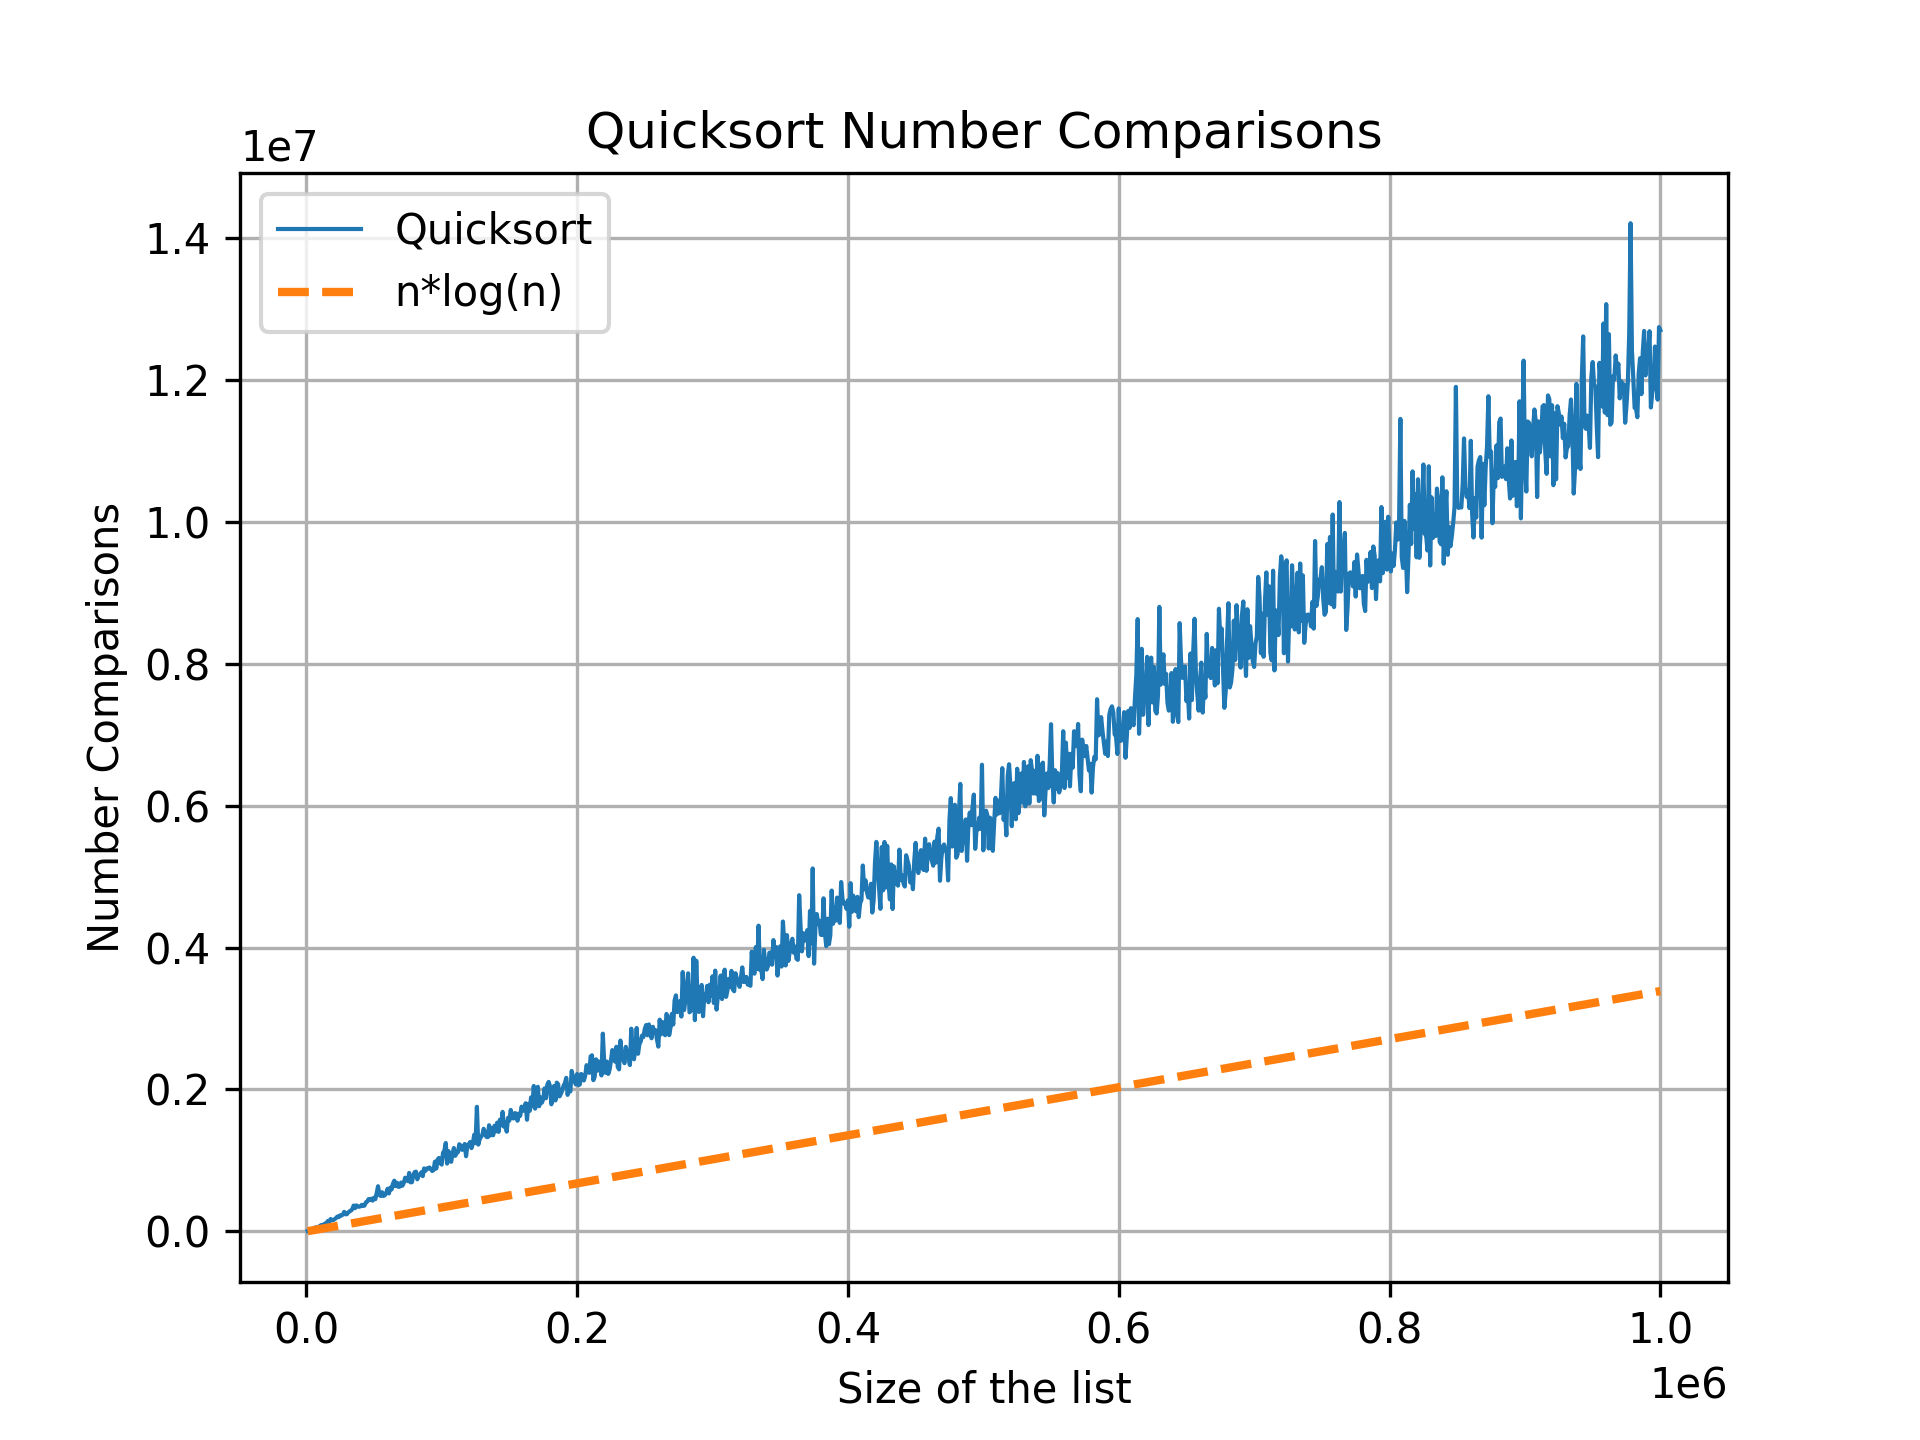
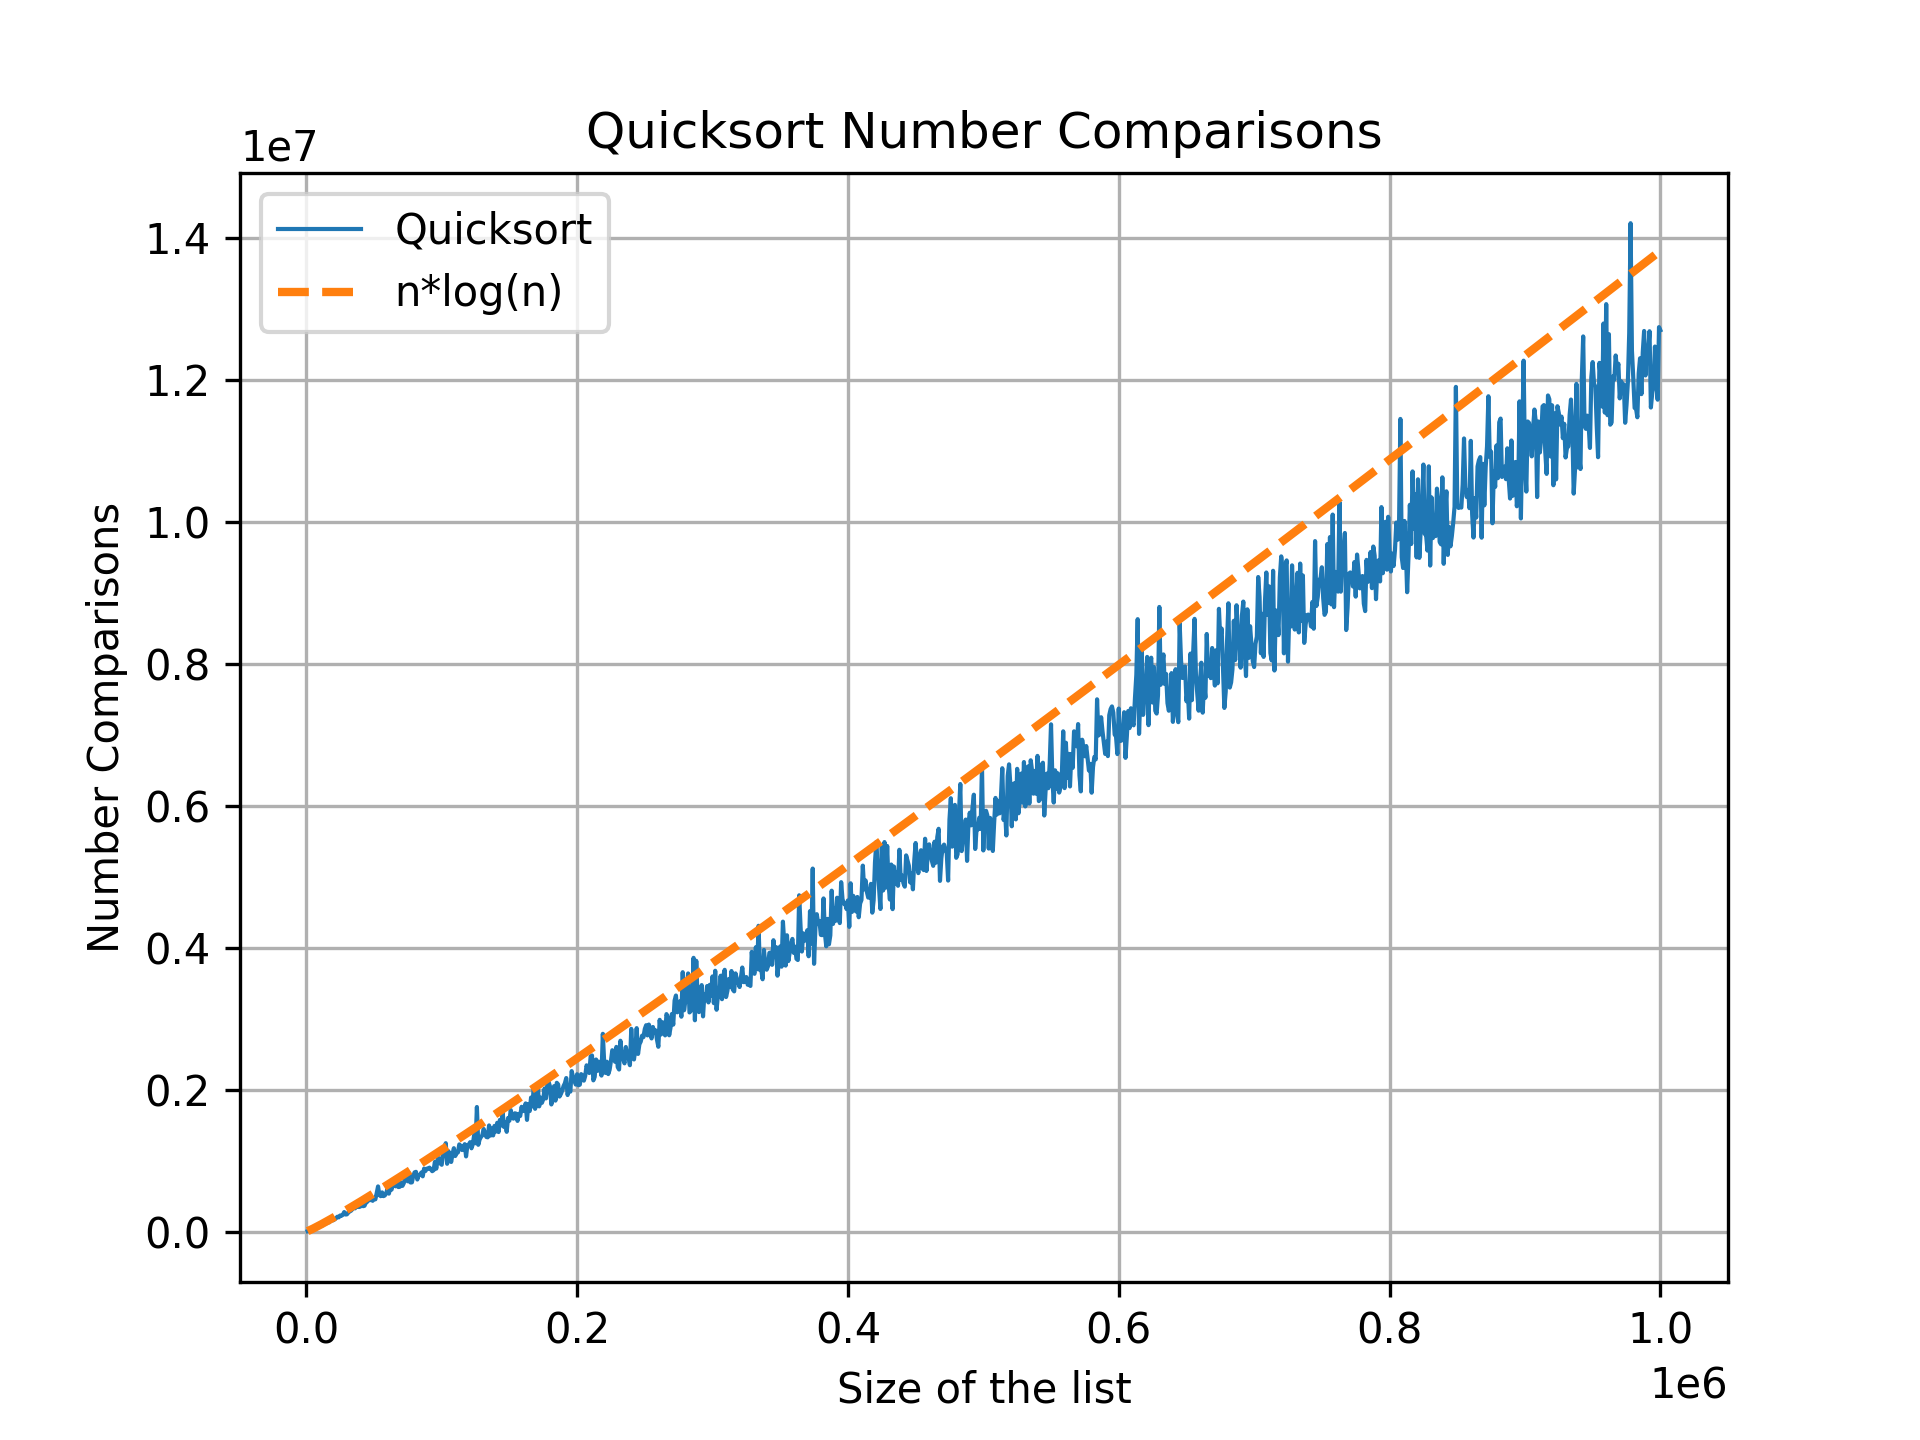
implementation of quickselect

diff --git a/src/selection.c b/src/selection.c
@@ -1,1 +1,82 @@
-//Hello selection
+/*
+Implementation of the Quickselect algorihtm and the LazySelect algorithm
+Alexandre Achten, October 2024
+*/
+
+#include <stdio.h>
+#include <stdlib.h>
+#include <time.h>
+
+#include "utilities.h"
+#include "selection.h"
+
+int cmp(int a, int b) {
+    nbComparisons++;
+    if (a < b) return -1;
+    if (a > b) return 1;
+    return 0;
+}
+
+int quickselect(int* S, int length, int k){
+    /**
+    * Perform a quickselect on the array S
+    * @param S: the array to be sorted
+    * @param k: the index of the element to be selected
+    **/
+    if (length < 2) return S[k];
+
+    srand(time(NULL));
+
+    // Generate a random pivot index between 0 and len-1
+    int pivot_pos = generateRandomNumber(0, length - 1);
+    int x = S[pivot_pos];
+
+    // Create three partitions: less than, equal to, and greater than pivot
+    int* less = (int*)malloc(length * sizeof(int));
+    int* equal = (int*)malloc(length * sizeof(int));
+    int* greater = (int*)malloc(length * sizeof(int));
+
+    int less_len = 0, equal_len = 0, greater_len = 0;
+    equal[equal_len++] = x;  // Add the pivot to the 'equal' partition
+
+    // Distribute the elements into the three partitions
+    for (int i = 0; i < length; i++) {
+        if (i == pivot_pos) continue;
+        int cmp_result = cmp(S[i], x);
+        if (cmp_result < 0) {
+            less[less_len++] = S[i];
+        } else if (cmp_result > 0) {
+            greater[greater_len++] = S[i];
+        } else {
+            equal[equal_len++] = S[i];
+        }
+    }
+
+    // Recursively select from the appropriate partition
+    if (k < less_len) {
+        int result = quickselect(less, less_len, k);
+        free(less);
+        free(equal);
+        free(greater);
+        return result;
+    }
+    if (k >= less_len + equal_len) {
+        int result = quickselect(greater, greater_len, k - less_len - equal_len);
+        free(less);
+        free(equal);
+        free(greater);
+        return result;
+    }
+
+    // Return the pivot if it is the kth smallest element
+    free(less);
+    free(equal);
+    free(greater);
+    return x;
+}
+
+int lazyselect(int* S, int length, int k){
+    
+    
+    return 0;
+}

diff --git a/src/main.c b/src/main.c
@@ -1,13 +1,17 @@
+/*
+Alexandre Achten, October 2024
+*/
 #include <stdio.h>
 #include <stdbool.h>
 #include <stdlib.h>
 #include <time.h>
 #include "quicksort.h"
+#include "selection.h"
 #include "utilities.h"
 
-int SIZE = 100;
+int SIZE = 100000;
 int range_low = 0;
-int range_high = 1000000;
+int range_high = 1000000; // previously 1000000
 
 void benchmarkQuicksort(){
     printf("Benchmarking quicksort...\n");
@@ -30,7 +34,38 @@ void benchmarkQuicksort(){
     printf("Benchmarking quicksort done\n");
 }
 
+void benchmarkQuickselect(){
+    printf("Benchmarking quickselect...\n");
+    nbComparisons = 0;
+    int* list = generateRandomList(SIZE, range_low, range_high, false);
+    int k = SIZE/2; 
+    clock_t start = clock();
+    int kth = quickselect(list,SIZE, k);
+    clock_t end = clock();
+    printf("The %dth number is : %d\n",k, kth);
+
+    double timeTaken = ((double)(end - start)) / CLOCKS_PER_SEC;
+    statsToFile2("quickselect", SIZE, k, timeTaken, nbComparisons);
+
+    printf("\n");
+    printf("Benchmarking quickselect done\n");
+}
+
+void benchmarkLazyselect(){
+    printf("Benchmarking lazyselect...\n");
+    nbComparisons = 0;
+    int* list = generateRandomList(SIZE, range_low, range_high, false);
+    int kth = lazyselect(list,SIZE, SIZE/2);
+    for (int i = 0; i < SIZE; i++){
+        printf("%d ", list[i]);
+    }
+    printf("\n");
+    printf("The %dth number is : %d\n",SIZE/2, kth);
+    printf("Benchmarking lazyselect done\n");
+}
+
 int main() {
-    benchmarkQuicksort();
+    // benchmarkQuicksort();
+    benchmarkQuickselect();
     return 0;
 }

diff --git a/src/utilities.c b/src/utilities.c
@@ -77,7 +77,7 @@ void statsToFile(char* FileName, int size, double timeTaken, int nbComparisons){
   /*Function that sends stats to a file */
   FILE *file;
 
-  file = fopen("results/results.csv", "a");
+  file = fopen("results/results_sort.csv", "a");
   if (file == NULL) {
     fprintf(stderr, "Error opening file\n");
     return;
@@ -92,6 +92,29 @@ void statsToFile(char* FileName, int size, double timeTaken, int nbComparisons){
 
   //save the file
   fprintf(file, "%s,%d,%lf,%d\n", exactFileName, size, timeTaken, nbComparisons);
+  //printf("Results successfully written to file\n");
+  fclose(file);
+}
+
+void statsToFile2(char* FileName, int size, int k, double timeTaken, int nbComparisons){
+  /*Function that sends stats to a file */
+  FILE *file;
+
+  file = fopen("results/results_select.csv", "a");
+  if (file == NULL) {
+    fprintf(stderr, "Error opening file\n");
+    return;
+  }
+
+  const char* exactFileName = strrchr(FileName, '/');
+  if (exactFileName != NULL) {
+    exactFileName++; // Move past the '/'
+  } else {
+    exactFileName = FileName; // No '/' found, use the whole FileName
+  }
+
+  //save the file
+  fprintf(file, "%s,%d,%d,%lf,%d\n", exactFileName, size, k, timeTaken, nbComparisons);
   //printf("Results successfully written to file\n");
   fclose(file);
 }

diff --git a/analyze/analyze_results_sort.py b/analyze/analyze_results_sort.py
@@ -8,7 +8,7 @@ data = pd.read_csv('results/results.csv')
 # Generate x and y values for x*log(x)
 x_values = np.linspace(min(data['size']), max(data['size']), 500)
 y_values = x_values * np.log(x_values)
-y_values = 3.386 * x_values
+# y_values = 3.386 * x_values
 
 #plot time taken
 plt.plot(data['size'], data['time'], label='Quicksort', linestyle='-', linewidth=1)

diff --git a/src/utilities.h b/src/utilities.h
@@ -7,4 +7,5 @@ int* generateRandomList(int size, int lower, int upper, int withReplacement);
 int generateRandomNumber(int lower, int upper);
 int verifySorted(int* list, int size);
 void statsToFile(char* FileName,int size, double timeTaken, int nbComparisons);
+void statsToFile2(char* FileName, int size, int k, double timeTaken, int nbComparisons);
 #endif

diff --git a/src/quicksort.h b/src/quicksort.h
@@ -1,3 +1,8 @@
+#ifndef QUICKSORT_H
+#define QUICKSORT_H
+
 int partition(int* S, int left, int right);
 int randPartition(int* S, int left, int right);
 void quicksort(int* S, int left, int right);
+
+#endif

diff --git a/src/selection.h b/src/selection.h
@@ -1,0 +1,6 @@
+#ifndef SELECTION_H
+#define SELECTION_H
+int cmp(int a, int b);
+int quickselect(int* S, int length, int k);
+int lazyselect(int* S, int length, int k);
+#endif

diff --git a/README.md b/README.md
@@ -1,3 +1,3 @@
 # infof413 assignement
 
-## Quicksort and randomized selection
+## Randomized selection
